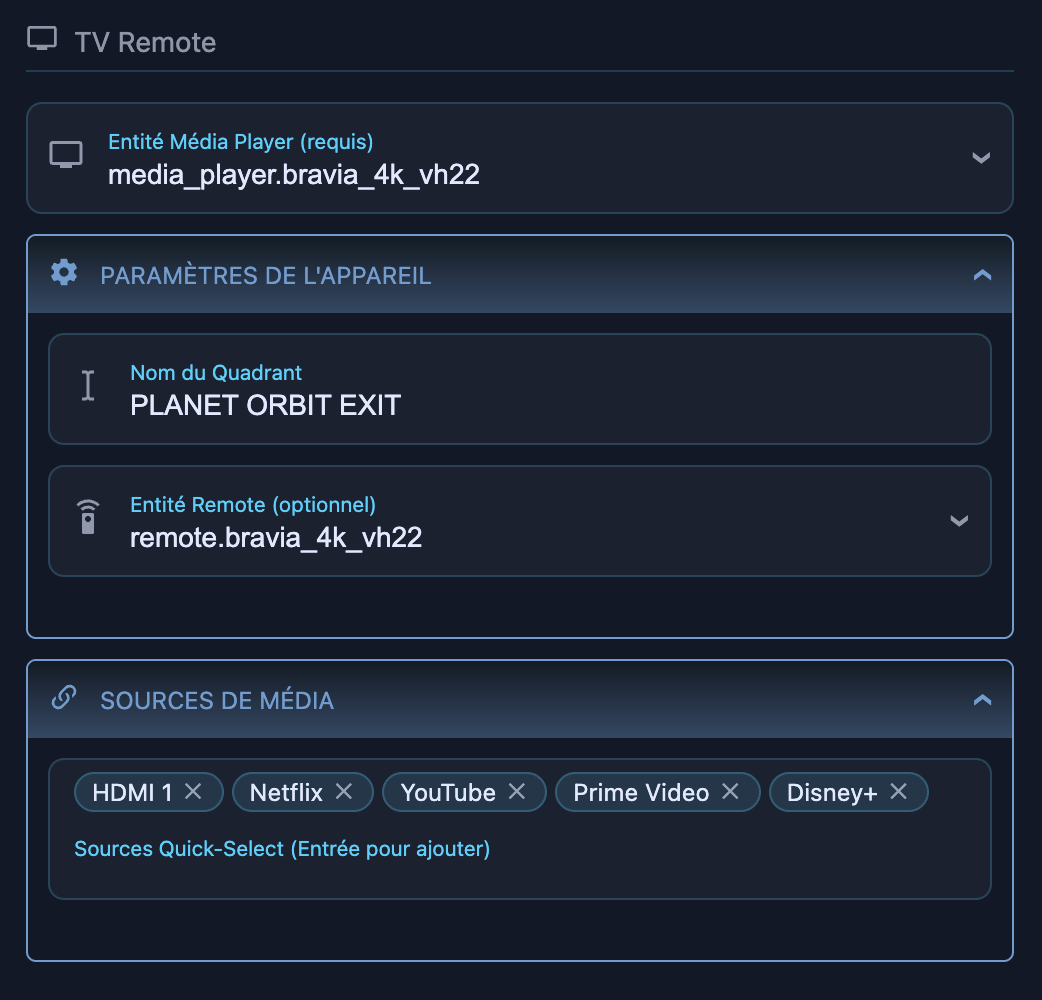
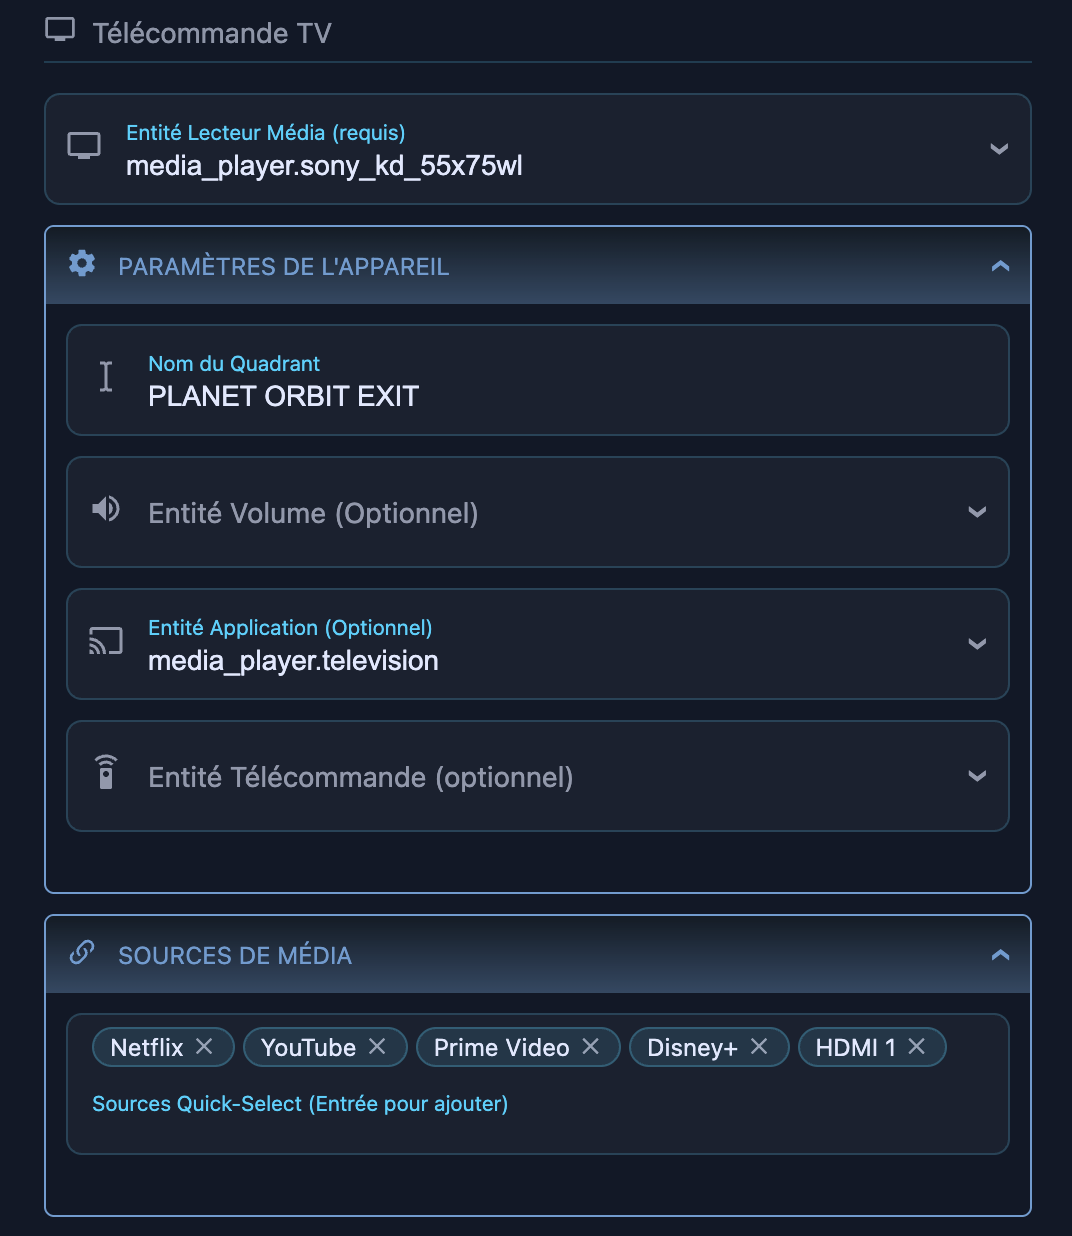
docs: remove back navigation action from TV card specification and update screenshot

Changed region(s): [[0.0, 0.0, 0.9827, 0.961], [0.0307, 0.93, 0.0614, 0.992]]

diff --git a/docs/specs/cards/tv.md b/docs/specs/cards/tv.md
@@ -108,9 +108,6 @@ custom_actions:
   home:
     action: call-service
     service: script.warp_speed_home
-  back:
-    action: navigate
-    navigation_path: /lovelace/main
 ```
 
 ---